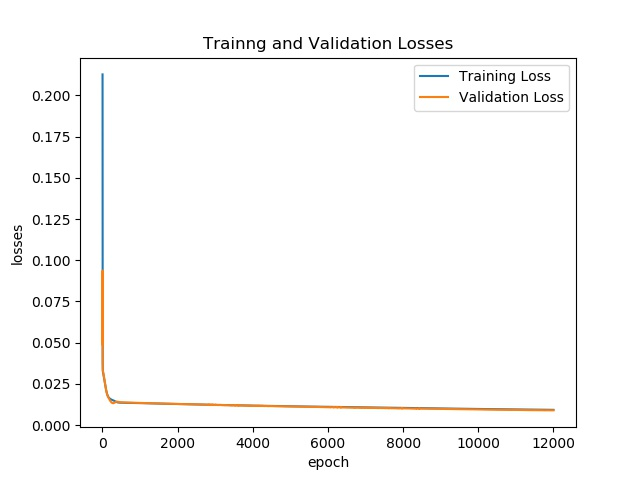
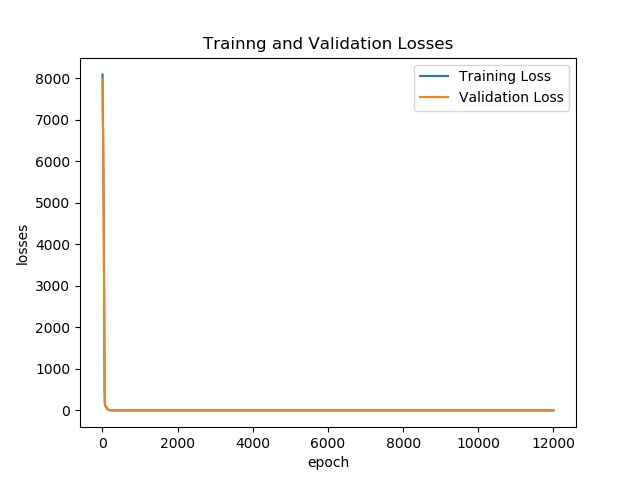
increase number of examples in dense NN model

Changed region(s): [[0.1562, 0.1562, 0.8438, 0.875], [0.0, 0.1562, 0.125, 0.8125], [0.0312, 0.8438, 0.125, 0.9062]]

diff --git a/TCN/prey_pred_model/prey_pred_sequence_randInit_denseNN.py b/TCN/prey_pred_model/prey_pred_sequence_randInit_denseNN.py
@@ -53,8 +53,8 @@ n_classes = 2
 batch_size = args.batch_size
 seq_length = args.seq_len 
 epochs = args.epochs
-total_examples = 1500
-training_examples = 800
+total_examples = 6000
+training_examples = 3000
 
 print(args)
 print("Producing data...")
@@ -71,7 +71,7 @@ dropout = args.dropout
 # # with dt
 # model = DenseNN_init(seq_length + 1)
 # without dt
-model = DenseNN_init(seq_length)
+model = DenseNN(seq_length)
 
 
 if args.cuda:

diff --git a/TCN/prey_pred_model/prey_pred_data.py b/TCN/prey_pred_model/prey_pred_data.py
@@ -15,7 +15,7 @@ def dfunc (y, t):
     return [f0, f1]
 
 def prey_pred_data(examples, seq_length):
-    N = 3000  # Number of data points
+    N = 6200  # Number of data points
     if N < (examples+seq_length+1):
         print('No of examples should be smaller than 2000-seq_length-1')
         return
